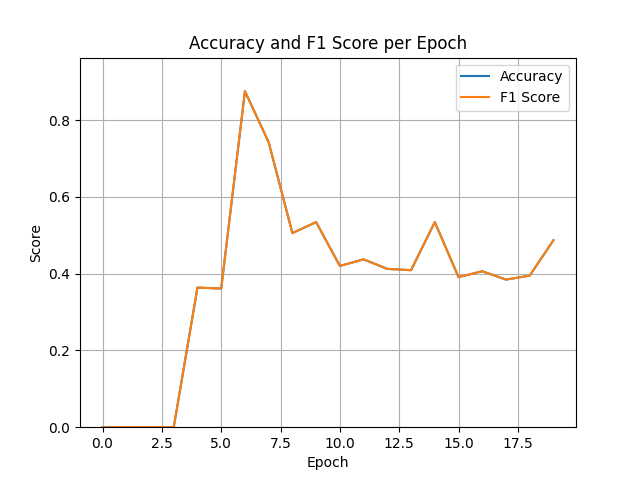
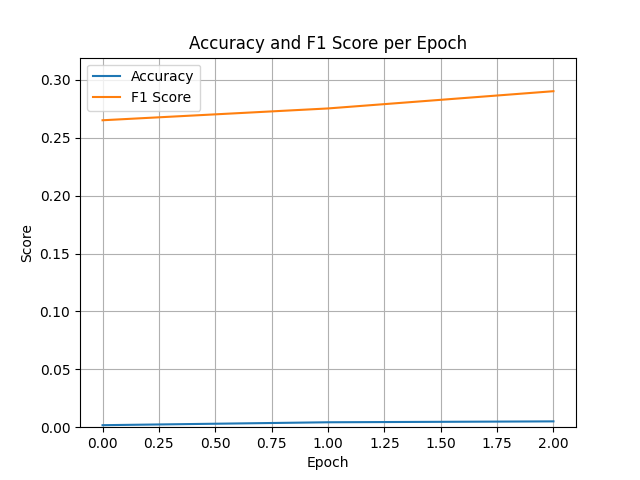
implemented multi-label classification from [Jacie], replaced architecture with ResNet

diff --git a/train.py b/train.py
@@ -8,8 +8,10 @@ import torch
 import torch.nn as nn
 import torch.optim as optim
 from torch.utils.data import Dataset, DataLoader
-from torchaudio.transforms import MelSpectrogram, AmplitudeToDB
+from torchaudio.transforms import MelSpectrogram, AmplitudeToDB, TimeMasking, FrequencyMasking
+from torch.cuda.amp import GradScaler, autocast
 from sklearn.preprocessing import OneHotEncoder
+from torchvision.models import resnet18, ResNet18_Weights
 
 # load ontology
 with open('ontology.json') as f: ontology = json.load(f)
@@ -28,11 +30,13 @@ id_to_name = {}
 
 # ====================== Dataset Loader ======================
 class AudioDataset(Dataset):
-    def __init__(self, csv_file, audio_dir, quiet=True, reduced=False, target_length=600):
+    def __init__(self, csv_file, audio_dir, quiet=True, display=False, reduced=False, target_length=600):
         self.audio_dir = audio_dir
         self.target_length = target_length
         self.quiet = quiet
+        self.display = display
         self.data = []
+        self.id_to_name = None
         self.parse_dataset(csv_file)
         self.load_data(reduced)
 
@@ -41,26 +45,22 @@ class AudioDataset(Dataset):
         # Remove samples without an existing audio file
         print(f"Loaded {len(self.data)} samples from dataset")
         self.data = [(ytid, start_sec, end_sec, ids) for ytid, start_sec, end_sec, ids in self.data if os.path.exists(os.path.join(self.audio_dir, f"{ytid}.flac"))]
-        print(f"Filtered to {len(self.data)} samples with audio files")
+        print(f"Filtered to {len(self.data)} samples with existing audio files")
 
         id_count = self.count_ids(quiet=self.quiet)
         
         global id_to_one_hot, id_to_name
-        if reduced:
-            # Remove labels with less than 100 examples or more than 150 examples
-            filtered_ids = [id for id, count in id_count.items() if 100 <= count <= 150]
-            self.data = [(ytid, start_sec, end_sec, ids) for ytid, start_sec, end_sec, ids in self.data if any(id in filtered_ids for id in ids)]
-            print(f"Filtered to {len(self.data)} samples with more than 100 and less than 150 examples per label")
-            self.count_ids()
-            one_hot_encoder.fit([[id] for id in filtered_ids])
-            id_to_one_hot = {id: one_hot_encoder.transform([[id]]).flatten() for id in filtered_ids}
-            id_to_name = {item['id']: item['name'] for item in ontology if item['id'] in filtered_ids}
-            return id_to_one_hot, id_to_name
-        else:
-            one_hot_encoder.fit([[id] for id in ids])
-            id_to_one_hot = {id: one_hot_encoder.transform([[id]]).flatten() for id in ids}
-            id_to_name = {item['id']: item['name'] for item in ontology}
-            return id_to_one_hot, id_to_name
+
+        filtered_ids = list(set(id for sample in self.data for id in sample[3]))
+        self.data = [(ytid, start_sec, end_sec, ids) for ytid, start_sec, end_sec, ids in self.data if any(id in filtered_ids for id in ids)]
+
+        filtered_ids = list(set(id for sample in self.data for id in sample[3]))
+        one_hot_encoder.fit([[id] for id in filtered_ids])
+        id_to_one_hot = {id: one_hot_encoder.transform([[id]]).flatten() for id in filtered_ids}
+        id_to_name = {item['id']: item['name'] for item in ontology if item['id'] in filtered_ids}
+        self.id_to_name = id_to_name
+
+        return id_to_one_hot, id_to_name
         
     # preprocesses and returns a datapoint: mel spectrogram and its corresponding true label
     def __getitem__(self, idx):
@@ -78,17 +78,19 @@ class AudioDataset(Dataset):
         if waveform.dim() == 1:
             waveform = waveform.unsqueeze(0)
 
+        # display the waveform
+        if self.display:
+            self.display_waveform(waveform, ytid, start_sec, end_sec)
+
         # define transform used to convert waveform to mel spectrogram with decibel scaling
         transform = nn.Sequential(
             MelSpectrogram(sample_rate=16000, n_mels=128, n_fft=2048, hop_length=512),
-            AmplitudeToDB() # mel spectrogram measures frequency amplitude over time, more informative for audio data
+            AmplitudeToDB(), # mel spectrogram measures frequency amplitude over time, more informative for audio data
+            TimeMasking(time_mask_param=30),         # Time masking for augmentation
+            FrequencyMasking(freq_mask_param=10)     # Frequency masking for augmentation
         )
         # convert waveform to mel spectrogram
         mel_spectrogram = transform(waveform)
-
-        # display the waveform
-        if not self.quiet:
-            self.display_waveform(waveform, ytid, start_sec, end_sec)
 
         # add the channel dimension if not present (needed for CNN)
         if mel_spectrogram.dim() == 2:
@@ -103,7 +105,7 @@ class AudioDataset(Dataset):
             mel_spectrogram = mel_spectrogram[:, :, :self.target_length]
 
         # display the mel spectrogram
-        if not self.quiet:
+        if self.display:
             self.display_spectrogram(mel_spectrogram, ytid, start_sec, end_sec, ids)
 
         # convert labels to float tensor
@@ -150,16 +152,14 @@ class AudioDataset(Dataset):
         return label_count
     def parse_dataset(self, csv_file):
         with open(csv_file, 'r') as f:
-            lines = f.readlines()[3:]  # skip header lines
+            lines = f.readlines()[3:]
             for line in lines:
                 parts = line.strip().split(', ')
                 ytid = parts[0]
                 start_sec = float(parts[1])
                 end_sec = float(parts[2])
 
-                # an entry can have multiple labels, separated by commas
-                # currently only considers the first label with [0], TODO: investigate removal of [0]
-                labels = [parts[3].split(',')[0].replace("\"", "")]
+                labels = [label.replace("\"", "") for label in parts[3].split(',')]
 
                 self.data.append((ytid, start_sec, end_sec, labels))
     def data_labels(self):
@@ -170,36 +170,15 @@ class AudioDataset(Dataset):
         return len(id_to_name)
 
 # ====================== Model Architecture ======================
-class AudioClassifier(nn.Module):   # CNN model, inheriting from pytorch neural network base class
+class AudioClassifier(nn.Module):
     def __init__(self, num_classes):
         super(AudioClassifier, self).__init__()
-        # todo: modify architecture? fine-tune?
-        self.conv1 = nn.Conv2d(in_channels=1, out_channels=64, kernel_size=(3, 3), padding=(1, 1))
-        self.conv2 = nn.Conv2d(in_channels=64, out_channels=128, kernel_size=(3, 3), padding=(1, 1))
-        self.conv3 = nn.Conv2d(in_channels=128, out_channels=256, kernel_size=(3, 3), padding=(1, 1))
-        self.bn1 = nn.BatchNorm2d(64)
-        self.bn2 = nn.BatchNorm2d(128)
-        self.bn3 = nn.BatchNorm2d(256)
-        self.pool = nn.AvgPool2d(kernel_size=(2, 2))    # used to be maxpool
-        self.dropout = nn.Dropout(p=0.2)        # used to be 0.5
-        self.activation = nn.ReLU()
-        self.fc1 = nn.Linear(256 * 16 * 75, 512)
-        self.fc2 = nn.Linear(512, num_classes)      # output layer, note the output is num_classes logits, 
-                                                    # where each index corresponding to a class
-
+        self.resnet = resnet18(weights=ResNet18_Weights.DEFAULT)
+        self.resnet.conv1 = nn.Conv2d(1, 64, kernel_size=(7, 7), stride=(2, 2), padding=(3, 3), bias=False)
+        self.resnet.fc = nn.Linear(self.resnet.fc.in_features, num_classes)
     def forward(self, x):
-        # generate feature map
-        x = self.pool(self.activation(self.bn1(self.conv1(x))))
-        x = self.pool(self.activation(self.bn2(self.conv2(x))))
-        x = self.pool(self.activation(self.bn3(self.conv3(x))))
-        
-        # flatten, then apply linear classifier
-        x = x.view(x.size(0), -1)
-        x = self.activation(self.fc1(x))
-        x = self.dropout(x)
-        x = self.fc2(x)
-
-        return x  # returns logits
+        x = self.resnet(x)
+        return x
 
 # ====================== Training ======================
 losses = []
@@ -224,50 +203,62 @@ def update_plot(loss, track='epoch'):
         plt.plot(losses, label='Batch Loss', color='blue')
     plt.legend()
     plt.pause(0.2)
-
 def train_model(model, dataloader, criterion, optimizer, scheduler, num_epochs, track='batch'):
     if track == 'batch' or track == 'epoch': init_plot()
+
+    scaler = GradScaler()
+
     for epoch in range(num_epochs):
         model.train()       # set model to training mode
         running_loss = 0.0  # used to track loss of network over time
-        progress_bar = tqdm(dataloader, desc=f"Epoch {epoch + 1}/{num_epochs}", leave=True)
+        progress_bar = tqdm(dataloader, desc=f"Epoch {epoch + 1}/{num_epochs}", leave=True, bar_format='{l_bar}{bar:30}{r_bar}{bar:-10b}')
+
         for spectrogram, labels in progress_bar:    # calls __getitem__ of AudioDataset
             # move tensors to GPU
             spectrogram, labels = spectrogram.to(device), labels.to(device)
 
             optimizer.zero_grad()               # zero the parameter gradients
-            outputs = model(spectrogram)        # forward pass
-            
-            labels = labels.squeeze(1)          # remove extra dimension
 
-            loss = criterion(outputs, labels)   # compute the loss
-            loss.backward()                     # backward pass
-            optimizer.step()                    # optimize the network's weights
+            # Mixed precision training
+            with autocast():
+                outputs = model(spectrogram)        # forward pass
+                labels = labels.squeeze(1)          # remove extra dimension
+                loss = criterion(outputs, labels)   # compute the loss
+            
+            # Backward pass with gradient scaling
+            scaler.scale(loss).backward()
+            # Clip gradients to avoid exploding gradients
+            torch.nn.utils.clip_grad_norm_(model.parameters(), max_norm=1.0)
+            
+            # Update model parameters
+            scaler.step(optimizer)
+            scaler.update()
 
             # continue to track statistics
             batch_loss = loss.item()
             running_loss += loss.item() * spectrogram.size(0)
             progress_bar.set_postfix(loss=batch_loss)
             if track == 'batch': update_plot(batch_loss, track=track)
-        scheduler.step(loss)
+        scheduler.step()
         if track == 'epoch': update_plot(batch_loss, track=track)
         torch.save(model.state_dict(), f'./models/model_checkpoint_e{epoch}.pth')
+
     plt.savefig('batch_loss_plot.png')
 
 # ====================== Main ======================
 if __name__ == "__main__":
     source = 'balanced_train_segments'
-    dataset = AudioDataset(f'./data/{source}.csv', f'./sounds_{source}', quiet=True, reduced=False, target_length=600)
+    dataset = AudioDataset(f'./data/{source}.csv', f'./sounds_{source}', quiet=True, display=False, reduced=False, target_length=600)
     dataloader = DataLoader(dataset, batch_size=32, shuffle=True)
-
+    
     model = AudioClassifier(num_classes=len(id_to_name))
     criterion = nn.BCEWithLogitsLoss()
-    # optimizer = optim.SGD(model.parameters(), lr=0.01)        # stochastic gradient descent results in worse convergence
-    optimizer = optim.Adam(model.parameters(), lr=0.00005)
-    scheduler = torch.optim.lr_scheduler.ReduceLROnPlateau(optimizer, mode='min', factor=0.1, patience=5) # used to be StepLR
+    optimizer = optim.Adam(model.parameters(), lr=0.0001)
+    # optimizer = optim.AdamW(model.parameters(), lr=0.001)
+    scheduler = torch.optim.lr_scheduler.StepLR(optimizer, step_size=3, gamma=0.5)
 
     device = torch.device("cuda" if torch.cuda.is_available() else "cpu")
     print(f"Using device: {device}")
     model = model.to(device)
 
-    train_model(model, dataloader, criterion, optimizer, scheduler, num_epochs=10, track='batch')
+    train_model(model, dataloader, criterion, optimizer, scheduler, num_epochs=5, track='batch')

diff --git a/test.py b/test.py
@@ -1,13 +1,13 @@
 import torch
 from torch.utils.data import DataLoader
 import numpy as np
+import torch
 from tqdm import tqdm
 import matplotlib.pyplot as plt
 from train import AudioDataset, AudioClassifier, one_hot_encoder
+from sklearn.metrics import accuracy_score, f1_score
 
 id_to_name = {}
-
-import torch
 
 def evaluate_model(model, epoch, dataloader, device, quiet=False):
     model.eval()
@@ -15,57 +15,54 @@ def evaluate_model(model, epoch, dataloader, device, quiet=False):
     all_labels = []
 
     with torch.no_grad():
-        progress_bar = tqdm(dataloader, desc=f"Epoch {epoch + 1}", leave=True)
+        progress_bar = tqdm(dataloader, desc=f"Epoch {epoch}", leave=True, bar_format='{l_bar}{bar:30}{r_bar}{bar:-10b}')
         for idx, (inputs, labels) in enumerate(progress_bar):
             inputs, labels = inputs.to(device), labels.to(device)
             outputs = model(inputs)
 
-            # TODO: do this in such a way that supports multi-label classification
-            preds = torch.sigmoid(outputs).round()
-            preds = preds.cpu().numpy().astype(int).tolist()    # is there a way to do this without the cpu?
-            preds = one_hot_encoder.inverse_transform(preds)
+            sigmoid_outputs = torch.sigmoid(outputs)
+            preds = (sigmoid_outputs > 0.5).int()
+            if preds.sum().item() == 0:
+                preds[0][sigmoid_outputs.argmax()] = 1
 
-            trues = labels.cpu().numpy().astype(int).tolist()
-            trues = one_hot_encoder.inverse_transform(trues)
+            preds = preds.cpu().numpy()
+            trues = labels.cpu().numpy()
 
-            if not preds or not preds[0] or not trues or not trues[0]:
-                continue
+            pred_ids = []
+            true_ids = []
 
-            if not quiet:
-                print(f'{id_to_name[preds[0][0]]} --> {id_to_name[trues[0][0]]} --> {preds[0][0] == trues[0][0]}')
-            all_preds.extend(preds)
-            all_labels.extend(trues)
+            for pred, true in zip(preds, trues):
+                # Find indices of active labels
+                pred_active_indices = np.where(pred == 1)[0]
+                true_active_indices = np.where(true == 1)[0]
 
-    # Manually calculate accuracy
-    correct = sum([all_preds[i][0] == all_labels[i][0] for i in range(len(all_preds))])
-    total = len(all_preds)
-    overall_accuracy = correct / total if total > 0 else 0
+                # Translate indices to their corresponding label IDs
+                pred_labels = one_hot_encoder.inverse_transform(np.eye(len(pred))[pred_active_indices])
+                true_labels = one_hot_encoder.inverse_transform(np.eye(len(true))[true_active_indices])
 
-    # Manually calculate F1 score
-    tp, fp, fn = 0, 0, 0
-    for i in range(len(all_preds)):
-        if all_preds[i][0] == all_labels[i][0]:
-            tp += 1
-        else:
-            fp += 1
-            fn += 1
+                # Flatten lists of IDs
+                pred_ids.append(pred_labels.flatten())
+                true_ids.append(true_labels.flatten())
 
-    precision = tp / (tp + fp) if (tp + fp) > 0 else 0
-    recall = tp / (tp + fn) if (tp + fn) > 0 else 0
-    overall_f1 = 2 * (precision * recall) / (precision + recall) if (precision + recall) > 0 else 0
+            pred_names = [[id_to_name[id] for id in pred] for pred in pred_ids]
+            true_names = [[id_to_name[id] for id in true] for true in true_ids]
 
-    # TODO: f1 is being calculated as equal to accuracy every time, investigate this
+            print(f"Predicted: {pred_names}")
+            print(f"True: {true_names}\n")
+
+    overall_accuracy = accuracy_score(all_labels, all_preds)
+    overall_f1 = f1_score(all_labels, all_preds, average='micro', zero_division=0)
 
     return overall_accuracy, overall_f1
 
 
 if __name__ == "__main__":
     multi = True
-    quiet = True
+    quiet = False   
     target_length = 600
-    dataset = 'eval_segments'
+    dataset = 'balanced_train_segments'
     test_dataset = AudioDataset(f'./data/{dataset}.csv', f'./sounds_{dataset}', target_length=target_length)
-    _, id_to_name = test_dataset.load_data()
+    id_to_name = test_dataset.id_to_name
     test_dataloader = DataLoader(test_dataset, batch_size=1, shuffle=False)
     model = AudioClassifier(num_classes=test_dataset.get_label_count())
 
@@ -73,22 +70,22 @@ if __name__ == "__main__":
     print(f"Using device: {device}")
 
     if not multi:
+        epoch = 3
         model = model.to(device)
-
-        model_path = './models/model_checkpoint_e6.pth'
+        model_path = f'./models/model_checkpoint_e{epoch - 1}.pth'
         model.load_state_dict(torch.load(model_path))
 
-        accuracy, f1 = evaluate_model(model, test_dataloader, device, quiet=quiet)
+        accuracy, f1 = evaluate_model(model, epoch, test_dataloader, device, quiet=quiet)
         print(f"Test Accuracy: {accuracy:.4f}")
         print(f"Test F1 Score: {f1:.4f}")
     else:
         accuracy_scores = []
         f1_scores = []
-        epochs = range(0, 20)
+        epochs = range(0, 3)
 
         for epoch in epochs:
             model = model.to(device)
-            model_path = f'./models/model_checkpoint_e{i}.pth'
+            model_path = f'./models/model_checkpoint_e{epoch}.pth'
             model.load_state_dict(torch.load(model_path))
 
             accuracy, f1 = evaluate_model(model, epoch, test_dataloader, device, quiet=quiet)

diff --git a/preprocess.py b/preprocess.py
@@ -4,7 +4,6 @@ from moviepy.editor import VideoFileClip, ImageSequenceClip
 import numpy as np
 import torch
 from torch.utils.data import DataLoader
-import numpy as np
 from tqdm import tqdm
 import matplotlib.pyplot as plt
 from train import AudioDataset, AudioClassifier, one_hot_encoder
@@ -143,7 +142,7 @@ input_video_path = "input.mp4"
 
 dataset = 'eval_segments'
 test_dataset = AudioDataset(f'./data/{dataset}.csv', f'./sounds_{dataset}', target_length=600)
-_, id_to_name = test_dataset.load_data()
+id_to_name = test_dataset.id_to_name
 
 VideoFileClip("30_second_animation_assignment.mp4").write_videofile(input_video_path, codec='libx264', logger=None)
 output_dir = "output"
